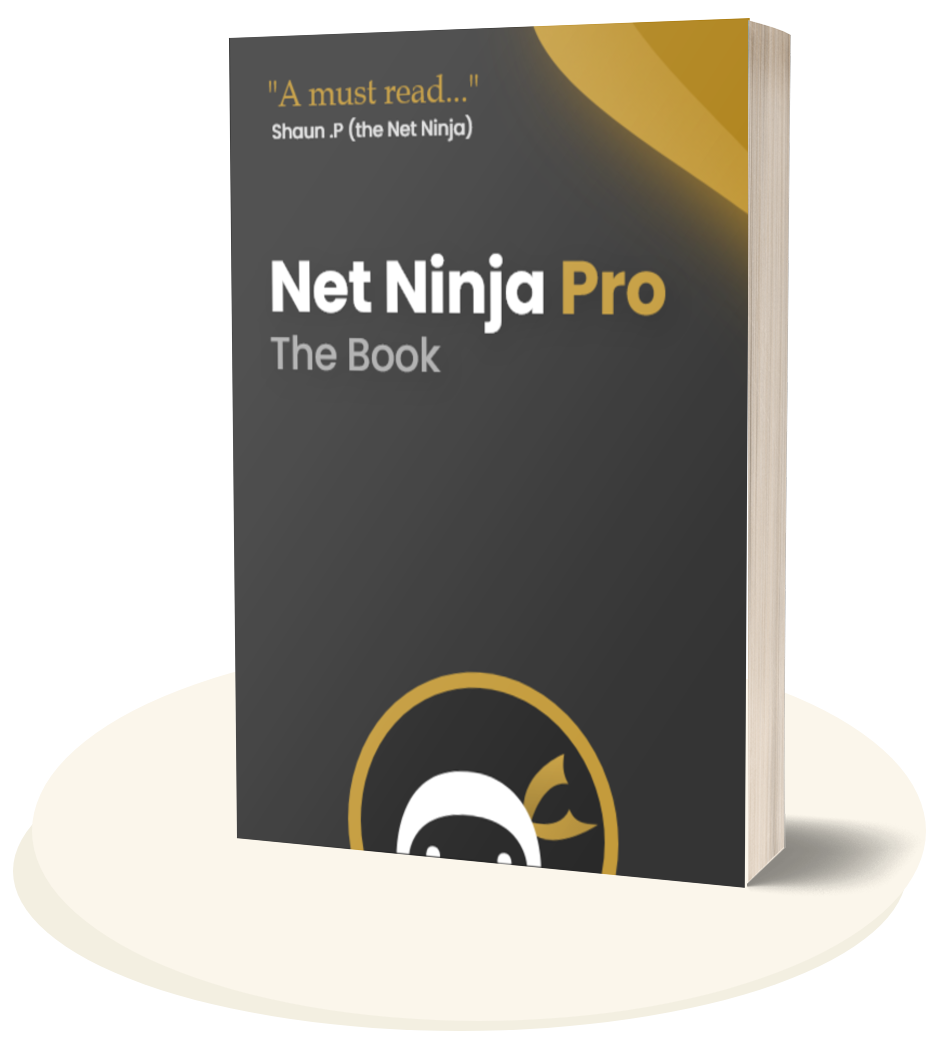
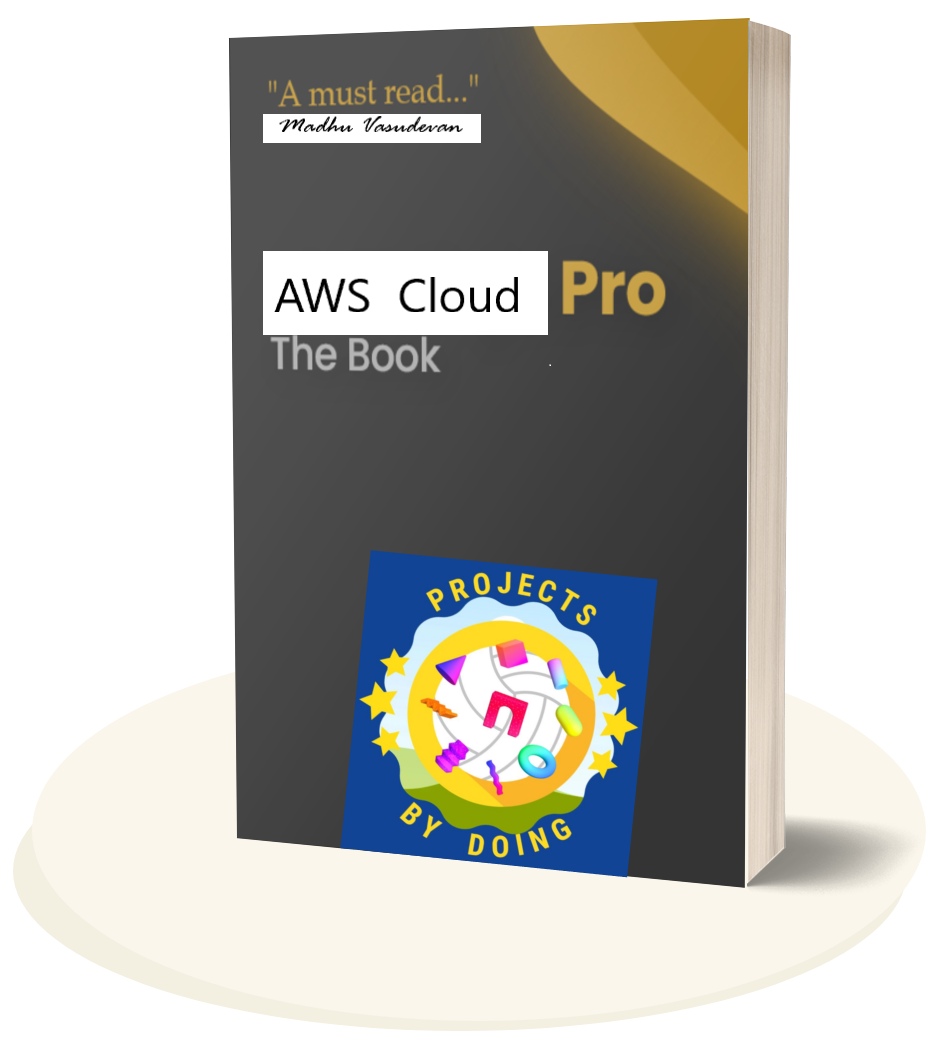
latest update

Changed region(s): [[0.3401, 0.5206, 0.7111, 0.8574], [0.2783, 0.2144, 0.5874, 0.3368], [0.2783, 0.0919, 0.5256, 0.1531]]

diff --git a/index.html b/index.html
@@ -15,10 +15,60 @@
 <body>
     
     <!-- navbar -->
+    <nav class="navbar navbar-expand-md">
+        <div class="container-xxl">
+            <a href="#intro" class="navbar-brand">
+                <span class="fw-bold text-secondary">
+                    AWS Cloud Pro - the Book
+                </span>
+            </a>
+            <!-- toggle button for mobile nav -->
+            <button class="navbar-toggler" type="button" 
+                data-bs-toggle="collapse" data-bs-target="#main-nav" 
+                aria-controls="main-nav" aria-expanded="false" aria-label="Toggle navigation">
+                <span class="navbar-toggler-icon"></span>
+            </button>
+
+            <!-- navbar links -->
+            <div class="collapse navbar-collapse justify-content-end align-items-center" id="main-nav">
+                <ul class="navbar-nav">
+                    <li class="nav-item">
+                        <a href="#topics" class="nav-link">About The Book</a>
+                    </li>
+                    <li class="nav-item">
+                        <a href="#reviews" class="nav-link">Reviews</a>
+                    </li>
+                    <li class="nav-item">
+                        <a href="#contact" class="nav-link">Get in Touch</a>
+                    </li>
+                    <li class="nav-item d-md-none">
+                        <a href="#pricing" class="nav-link">Pricing</a>
+                    </li>
+                    <li class="nav-item ms-2 d-none d-md-inline">
+                        <a href="#pricing" class="btn btn-secondary">Buy Now</a>
+                    </li>
+                </ul>
+            </div>
+        </div>
+    </nav>
 
     <!-- main image & intro text -->
     <section id="intro">
-        .container-lg
+        <div class="container-lg">
+            <div class="row justify-content-center align-items-center">
+                <div class="col-md-5 text-center text-md-start">
+                    <div>
+                        <div class="display-2">Score-Up</div>
+                        <div class="display-5 text-muted">Your Cloud Skills</div>
+                    </div>
+                    <p class="lead my-4 text-muted">Lorem ipsum dolor sit amet, consectetur adipisicing elit.</p>
+                    <a href="#pricing" class="btn btn-secondary btn-lg">Buy Now</a>
+                </div>
+                <div class="col-md-5 text-center d-none d-md-block">
+                    <img class="img-fluid" src="/assets/ebook-cover.png" alt="ebook-cover">
+                </div>
+            </div>
+        </div>
     </section>
 
     <!-- pricing plans -->
